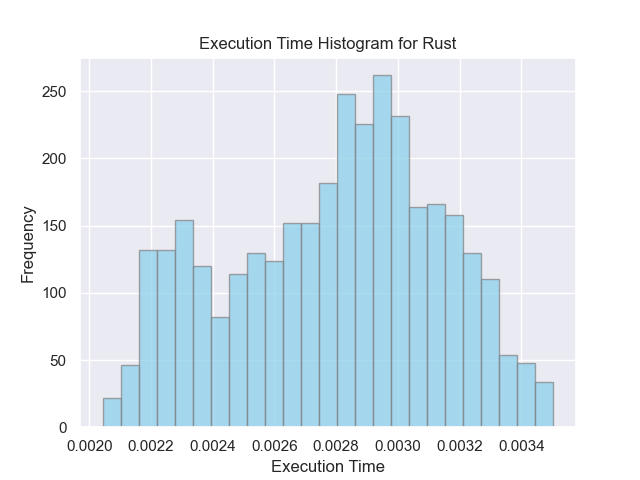
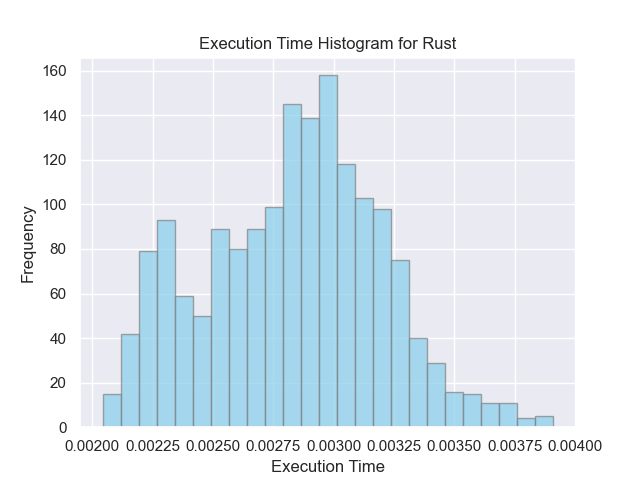
Fixed heuristics issue

diff --git a/stat_test_extended.py b/stat_test_extended.py
@@ -47,29 +47,41 @@ def main(in_directory):
     df_heuristic_1_pivot['is_anomaly'] = df_heuristic_1_pivot['lof_outlier'] == -1
 
     # Combine the results
-    df_cleaned = pd.concat([df_heuristic_0_pivot, df_heuristic_1_pivot])
-    df_cleaned = df_cleaned.reset_index()
-    
-    # Melt data for visualization
-    df_cleaned_melted = df_cleaned.melt(
+    df_heuristic_0_cleaned = df_heuristic_0_pivot.reset_index()
+    df_heuristic_1_cleaned = df_heuristic_1_pivot.reset_index()
+
+    # Melt the data for each heuristic
+    df_heuristic_0_melted = df_heuristic_0_cleaned.melt(
         id_vars=['instance_num', 'is_anomaly'], 
-        value_vars=[col for col in df_cleaned.columns if col not in ['lof_outlier', 'is_anomaly', 'instance_num']],
+        value_vars=[col for col in df_heuristic_0_cleaned.columns if col not in ['lof_outlier', 'is_anomaly', 'instance_num']],
         var_name='language', 
         value_name='time'
     )
-    df = df_cleaned_melted.merge(
-        df[['instance_num', 'heuristic']].drop_duplicates(), 
+
+    df_heuristic_1_melted = df_heuristic_1_cleaned.melt(
+        id_vars=['instance_num', 'is_anomaly'], 
+        value_vars=[col for col in df_heuristic_1_cleaned.columns if col not in ['lof_outlier', 'is_anomaly', 'instance_num']],
+        var_name='language', 
+        value_name='time'
+    )
+
+    # Combine the cleaned and melted data
+    df_cleaned_combined = pd.concat([df_heuristic_0_melted, df_heuristic_1_melted])
+
+    # Merge the heuristic column to the cleaned data
+    df_cleaned_combined = df_cleaned_combined.merge(
+        df[['instance_num', 'heuristic']].drop_duplicates(),
         on='instance_num', 
         how='left'
     )
 
-    # Plot all points, highlighting anomalies
+    # Now plot again
     seaborn.set()
     plt.figure(figsize=(12, 8))
 
     # Scatterplot for inliers and outliers
     seaborn.scatterplot(
-        data=df, 
+        data=df_cleaned_combined, 
         x='instance_num', 
         y='time', 
         hue='language', 
@@ -86,15 +98,19 @@ def main(in_directory):
     plt.title("Execution Time vs. Instance Number (Log Scale)")
     plt.xlabel("Instance Number")
     plt.ylabel("Execution Time (Log Scale)")
+
+    # Adjust legend position to avoid clipping
     plt.legend(title="Language", loc='upper right', bbox_to_anchor=(1.05, 1))
-    plt.grid(linestyle='--', alpha=0.7)
-    
+
+    # Apply tight layout to ensure legend fits
+    plt.tight_layout()
+
     # Save plot
     plt.savefig(os.path.join(plots_dir, 'exec_time_vs_instance_num_with_anomalies.png'), dpi=300)
     plt.close()
 
     #update df to remove anomalies
-    df = df[df['is_anomaly'] == False]
+    df = df[df_cleaned_combined['is_anomaly'] == False]
     
     # Combined histogram for all languages
     languages = df['language'].unique()
